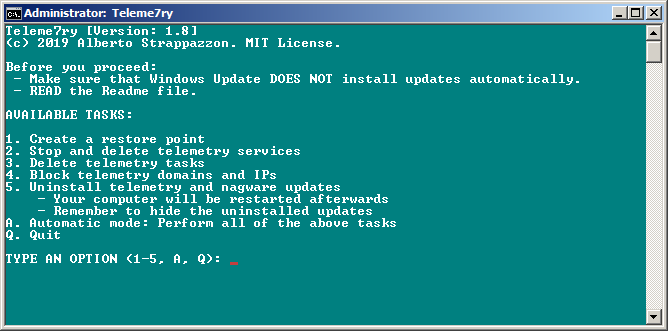
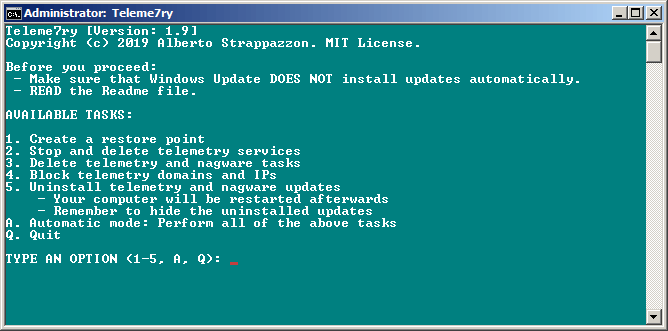
docs: Add new info and update screenshot

Changed region(s): [[0.0, 0.1208, 0.6287, 0.1511], [0.2395, 0.4834, 0.4491, 0.5136]]

diff --git a/docs/index.html b/docs/index.html
@@ -75,9 +75,9 @@
 			<ul>
 				<li>Telemetry services will be stopped and deleted. You can see the full list <a href="https://github.com/Strappazzon/teleme7ry/wiki/Telemetry-Services">here</a>.</li>
 			</ul>
-		<li><strong>Delete telemetry tasks</strong></li>
+		<li><strong>Delete telemetry and nagware tasks</strong></li>
 			<ul>
-				<li>Telemetry tasks will be deleted. You can see the full list <a href="https://github.com/Strappazzon/teleme7ry/wiki/Telemetry-Tasks">here</a>.</li>
+				<li>Telemetry and nagware tasks will be deleted. You can see the full list <a href="https://github.com/Strappazzon/teleme7ry/wiki/Telemetry-Tasks">here</a>.</li>
 			</ul>
 		<li><strong>Block telemetry domains and IPs</strong></li>
 			<ul>
@@ -132,6 +132,7 @@
 		<li><a href="https://deskroll.com/blog/article.php?id=Privacy_In_Windows_7_%E2%80%93_How_To_Disable_Telemetry_Data_Collection">Privacy In Windows 7 – How To Disable Telemetry Data Collection - DeskRoll</a></li>
 		<li><a href="https://github.com/10se1ucgo/DisableWinTracking/blob/master/dwt_util.py#L138">dwt_util.py - DisableWinTracking</a></li>
 		<li><a href="https://www.howtogeek.com/408556/how-to-avoid-windows-7s-end-of-support-nags/">How to Avoid Windows 7’s End-of-Support Nags - How-To Geek</a></li>
+		<li><a href="https://www.ghacks.net/2019/12/12/how-to-disable-the-your-windows-7-pc-is-out-of-support-full-screen-popop/">How to disable the "Your Windows 7 PC is out of support" full screen popup</a></li>
 		<li><a href="https://www.getblackbird.net/blacklist/updates/">Updates Blacklist - Blackbird</a></li>
 	</ul>
 
@@ -152,7 +153,7 @@
 	<blockquote class="notepad">
 	<p class="quote-title"><img class="icon" src="assets/notepad_file.png" draggable="false"> LICENSE.txt - Notepad</p>
 	<p class="notepad-textarea">
-		Copyright (c) 2019 Alberto Strappazzon
+		Copyright (c) 2018 - 2019 Alberto Strappazzon
 		<br>
 		<br>
 		Permission is hereby granted, free of charge, to any person obtaining a copy
